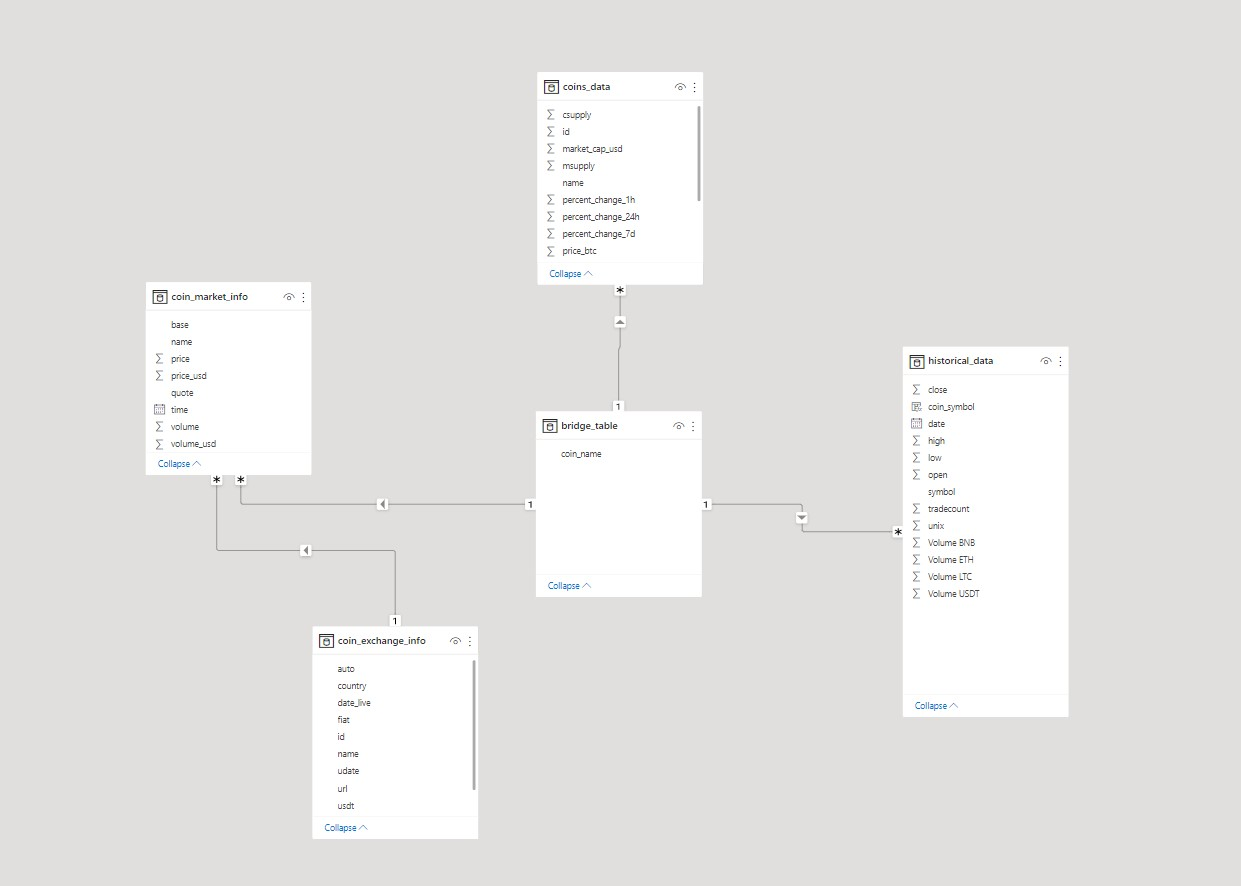
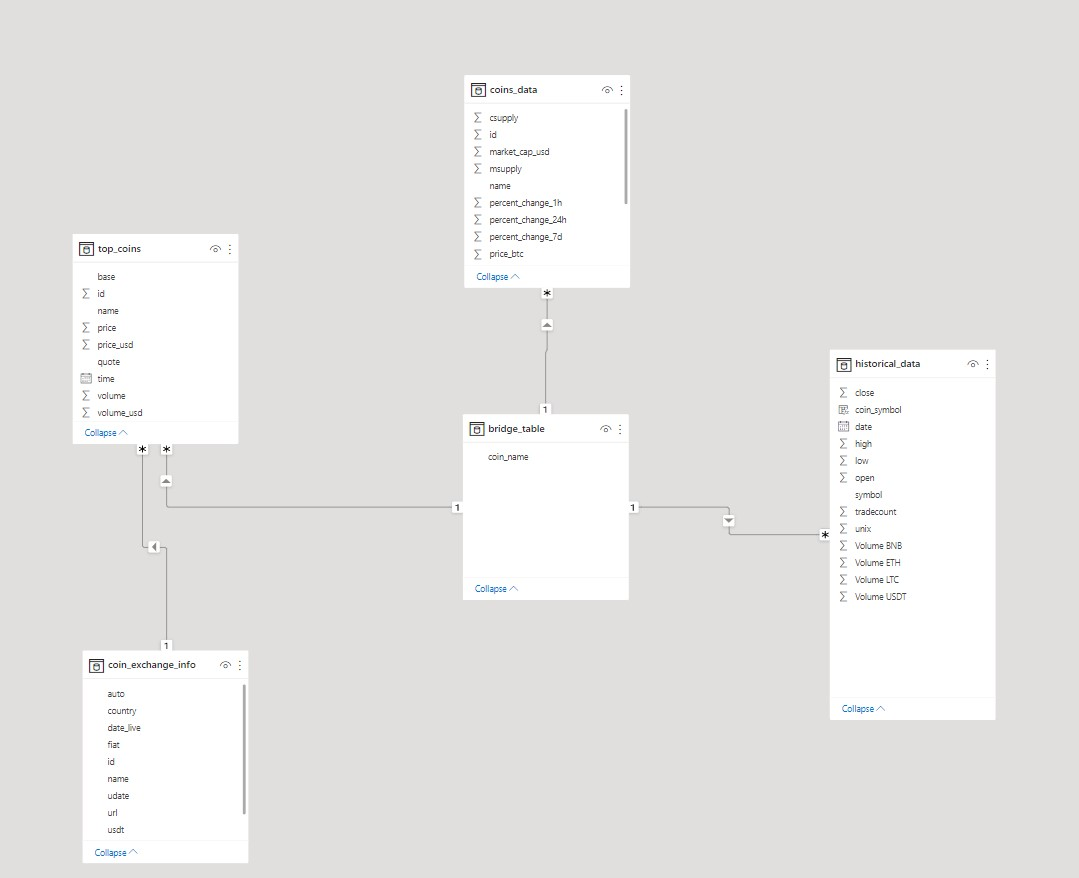
completed test script for database validation after insert

diff --git a/database/create_table_sql.py b/database/create_table_sql.py
@@ -1,4 +1,4 @@
-#/mnt/c/Users/tienl/Udacity_Courses/DE_capstone/capstone_venv/bin/python3.8
+# /mnt/c/Users/tienl/Udacity_Courses/DE_capstone/capstone_venv/bin/python3.8
 from dotenv import load_dotenv
 from pathlib import Path
 import os
@@ -10,10 +10,10 @@ load_dotenv(my_path)
 BUCKET_NAME = os.getenv('S3_BUCKET_NAME')
 DWH_ROLE_ARN = os.getenv('DWH_ROLE_ARN')
 DWH_ENDPOINT = os.getenv('DWH_ENDPOINT')
-COINS_DATA=os.getenv('COINS_DATA')
-EXCHANGE_DATA=os.getenv('EXCHANGE_DATA')
-TOP_COINS=os.getenv('TOP_COINS')
-HISTORICAL_DATA=os.getenv('HISTORICAL_DATA')
+COINS_DATA = os.getenv('COINS_DATA')
+EXCHANGE_DATA = os.getenv('EXCHANGE_DATA')
+TOP_COINS = os.getenv('TOP_COINS')
+HISTORICAL_DATA = os.getenv('HISTORICAL_DATA')
 
 coins_stage_table_drop = 'DROP TABLE IF EXISTS coins_data_table_stage'
 top_coins_stage_table_drop = 'DROP TABLE IF EXISTS top_coins_table_stage'
@@ -21,9 +21,11 @@ exchange_stage_table_drop = 'DROP TABLE IF EXISTS exchange_data_table_stage'
 historical_data_table_stage_drop = 'DROP TABLE IF EXISTS historical_data_table_stage'
 
 drop_exchange_table = """DROP TABLE IF EXISTS exchange_data_table"""
-drop_coins_table =  """DROP TABLE IF EXISTS coins_data_table"""
-drop_historical_table =""" DROP TABLE IF EXISTS historical_data_table"""
+drop_coins_table = """DROP TABLE IF EXISTS coins_data_table"""
+drop_historical_table = """ DROP TABLE IF EXISTS historical_data_table"""
 drop_top_coins_table = """ DROP TABLE IF EXISTS top_coins_data_table"""
+drop_bridge_table = """ DROP TABLE IF EXISTS bridge_table"""
+
 
 coins_stage_table_create = ("""
 CREATE TABLE IF NOT EXISTS coins_data_table_stage
@@ -149,6 +151,10 @@ REGION 'us-west-2'
 ESCAPE
 """
 
+"""
+>>> POSTGRRES SQL LOCAL DATABASE QUERY
+- Uncommented to test within local
+"""
 # copy_coins_data_to_redshift = f"""
 # COPY coins_data_table_stage
 # FROM '/mnt/c/Users/tienl/Udacity_Courses/DE_capstone/data/coins_data.csv'
@@ -179,7 +185,6 @@ ESCAPE
 # DELIMITER ','
 # CSV ;
 # """
-
 
 
 create_exchange_table = """CREATE TABLE if not exists exchange_data_table(id integer primary key sortkey distkey, name varchar, url varchar, country varchar, date_live date, volume_usd numeric, volume_usd_adj numeric);"""
@@ -242,17 +247,74 @@ FROM top_coins_table_stage
 """
 
 
+create_bridge_table = """
+CREATE TABLE if not exists bridge_table(coin_names varchar primary key sortkey distkey)"""
+
+insert_bridge_table = """
+INSERT INTO bridge_table(coin_names)
+SELECT  distinct symbol
+FROM historical_data_table"""
+
+### Use this for Redshift database
+redshift_Validation_query = """
+SELECT  t.name
+       ,t.base AS coin_symbol
+       ,t.price
+       ,t.price_usd
+       ,e.url
+       ,e.country
+       ,e.date_live
+       ,t.volume
+FROM top_coins_data_table AS t
+JOIN exchange_data_table_stage AS e
+ON t.name = e.name
+"""
+
+### Use this if working with local database
+local_Validation_query = """
+SELECT  t.name
+       ,t.base AS coin_symbol
+       ,t.price
+       ,t.price_usd
+       ,e.url
+       ,e.country
+       ,e.date_live
+       ,t.volume
+FROM top_coins_table_stage AS t
+JOIN exchange_data_table_stage AS e
+ON t.name = e.name
+"""
+
+validation_coins_stage_table = """
+select * from coins_data_table_stage
+"""
+
+validation_exchange_stage_table = """
+select * from exchange_data_table_stage
+"""
+
+validation_historical_table_stage = """
+select * from historical_data_table_stage
+"""
+
+validation_top_coins_table_stage = """
+select * from top_coins_table_stage
+"""
 
 
-# coin_validation = """
-# select 
-# """
+coins_stage_table_drop = 'DROP TABLE IF EXISTS coins_data_table_stage'
+top_coins_stage_table_drop = 'DROP TABLE IF EXISTS top_coins_table_stage'
+exchange_stage_table_drop = 'DROP TABLE IF EXISTS exchange_data_table_stage'
+historical_data_table_stage_drop = 'DROP TABLE IF EXISTS historical_data_table_stage'
+
+validation_queries = [validation_coins_stage_table, validation_exchange_stage_table, validation_top_coins_table_stage, validation_historical_table_stage, redshift_Validation_query]
 
 
-
-drop_table_queries = [coins_stage_table_drop, exchange_stage_table_drop, top_coins_stage_table_drop, historical_data_table_stage_drop, drop_exchange_table, drop_coins_table, drop_historical_table, drop_top_coins_table]
-create_table_queries = [coins_stage_table_create, exchange_stage_table_create, top_coins_stage_table_create, historical_data_table_create, create_coins_table, create_exchange_table, create_historical_table, create_top_coins_table]
-copy_table_queries=[copy_coins_data_to_redshift, copy_exchange_data_to_redshift, copy_top_coins_to_redshift, copy_historical_data_to_redshift]
-insert_table_queries= [insert_top_coins_table, insert_coins_table, insert_historical_table, insert_exchange_table ]
-
-
+drop_table_queries = [coins_stage_table_drop, exchange_stage_table_drop, top_coins_stage_table_drop, historical_data_table_stage_drop,
+                      drop_exchange_table, drop_coins_table, drop_historical_table, drop_top_coins_table, drop_bridge_table]
+create_table_queries = [coins_stage_table_create, exchange_stage_table_create, top_coins_stage_table_create, historical_data_table_create,
+                        create_coins_table, create_exchange_table, create_historical_table, create_top_coins_table, create_bridge_table]
+copy_table_queries = [copy_coins_data_to_redshift, copy_exchange_data_to_redshift,
+                      copy_top_coins_to_redshift, copy_historical_data_to_redshift]
+insert_table_queries = [insert_top_coins_table, insert_coins_table,
+                        insert_historical_table, insert_exchange_table, insert_bridge_table]

diff --git a/database/Database_Validation_Script.py b/database/Database_Validation_Script.py
@@ -1,0 +1,53 @@
+import unittest
+import psycopg2
+from data_result_output import *
+import pandas as pd
+from db_main import DB_NAME, DB_USER, DB_PASSWORD, DB_PORT, S3_BUCKET_NAME, HOST, DWH_ROLE_ARB, localhost, local_dbname, local_username, local_password
+from create_table_sql import validation_queries
+
+
+my_list = []
+
+# conn = psycopg2.connect(host=f'{localhost}',database=f'{local_dbname}',user=f'{local_username}',password=f'{local_password}')
+
+conn = psycopg2.connect(f"host={HOST} dbname={DB_NAME} user={DB_USER} password={DB_PASSWORD} port={DB_PORT}")
+cur = conn.cursor()
+for query in validation_queries:
+    cur.execute(query)
+    row = cur.fetchall()
+    my_list.append(row)
+    conn.commit()
+
+conn.close()
+coin_data, exchange_data, top_coins_data, historical_data, redshift_demo_query = my_list
+coin_data = pd.DataFrame(coin_data).shape
+exchange_data = pd.DataFrame(exchange_data).shape
+top_coins_data = pd.DataFrame(top_coins_data).shape
+historical_data = pd.DataFrame(historical_data).shape
+
+redshift_demo_query = pd.DataFrame(redshift_demo_query)
+
+print("\n\n>>> Redshift Demo's query of top coins table and exchange table for analysis: \n".upper(), redshift_demo_query, "\n\n")
+
+
+print("\n\n>>> Redshift DataBase staging table's shape result: ".upper(), coin_data, exchange_data,top_coins_data, historical_data, "\n\n")
+
+
+class my_test(unittest.TestCase):    
+    
+    def test_1(self):
+        self.assertEqual(coin_requests_s3_result, coin_data, f"\n\n>>> Test coin_data_result_s3 result should be:{coin_requests_s3_result}")
+    
+    def test_2(self):
+        self.assertEqual(exchange_data_s3_result, exchange_data, f"\n\n>>> Test exchange_data_result_s3 result should be:{exchange_data_s3_result}")
+
+    def test_3(self):
+        self.assertEqual(historical_s3_result, historical_data,f"\n\n>>> Test historical_data_result_s3 result should be:{historical_s3_result}")
+    
+    def test_4(self):
+        self.assertEqual(top_coins_s3_result, top_coins_data, f"\n\n>>> Test top_coins_data_result_s3 result should be: {top_coins_s3_result}")
+
+
+if __name__ == '__main__':
+    unittest.main()
+    

diff --git a/database/db_main.py b/database/db_main.py
@@ -67,8 +67,10 @@ def main():
     """
     Using another files with all connection string to connect into DW cluster
     """
-
+    ### Redshift database connection
     conn = psycopg2.connect(f"host={HOST} dbname={DB_NAME} user={DB_USER} password={DB_PASSWORD} port={DB_PORT}")
+    
+    ### Local postgres database connection
     # conn = psycopg2.connect(host=f'{localhost}',database=f'{local_dbname}',user=f'{local_username}',password=f'{local_password}')
     cur = conn.cursor()
     try:
@@ -90,7 +92,7 @@ def main():
     except Exception as e:
         print(f'4: \n{e}')
 
-            
+    
     conn.close()
     
 
